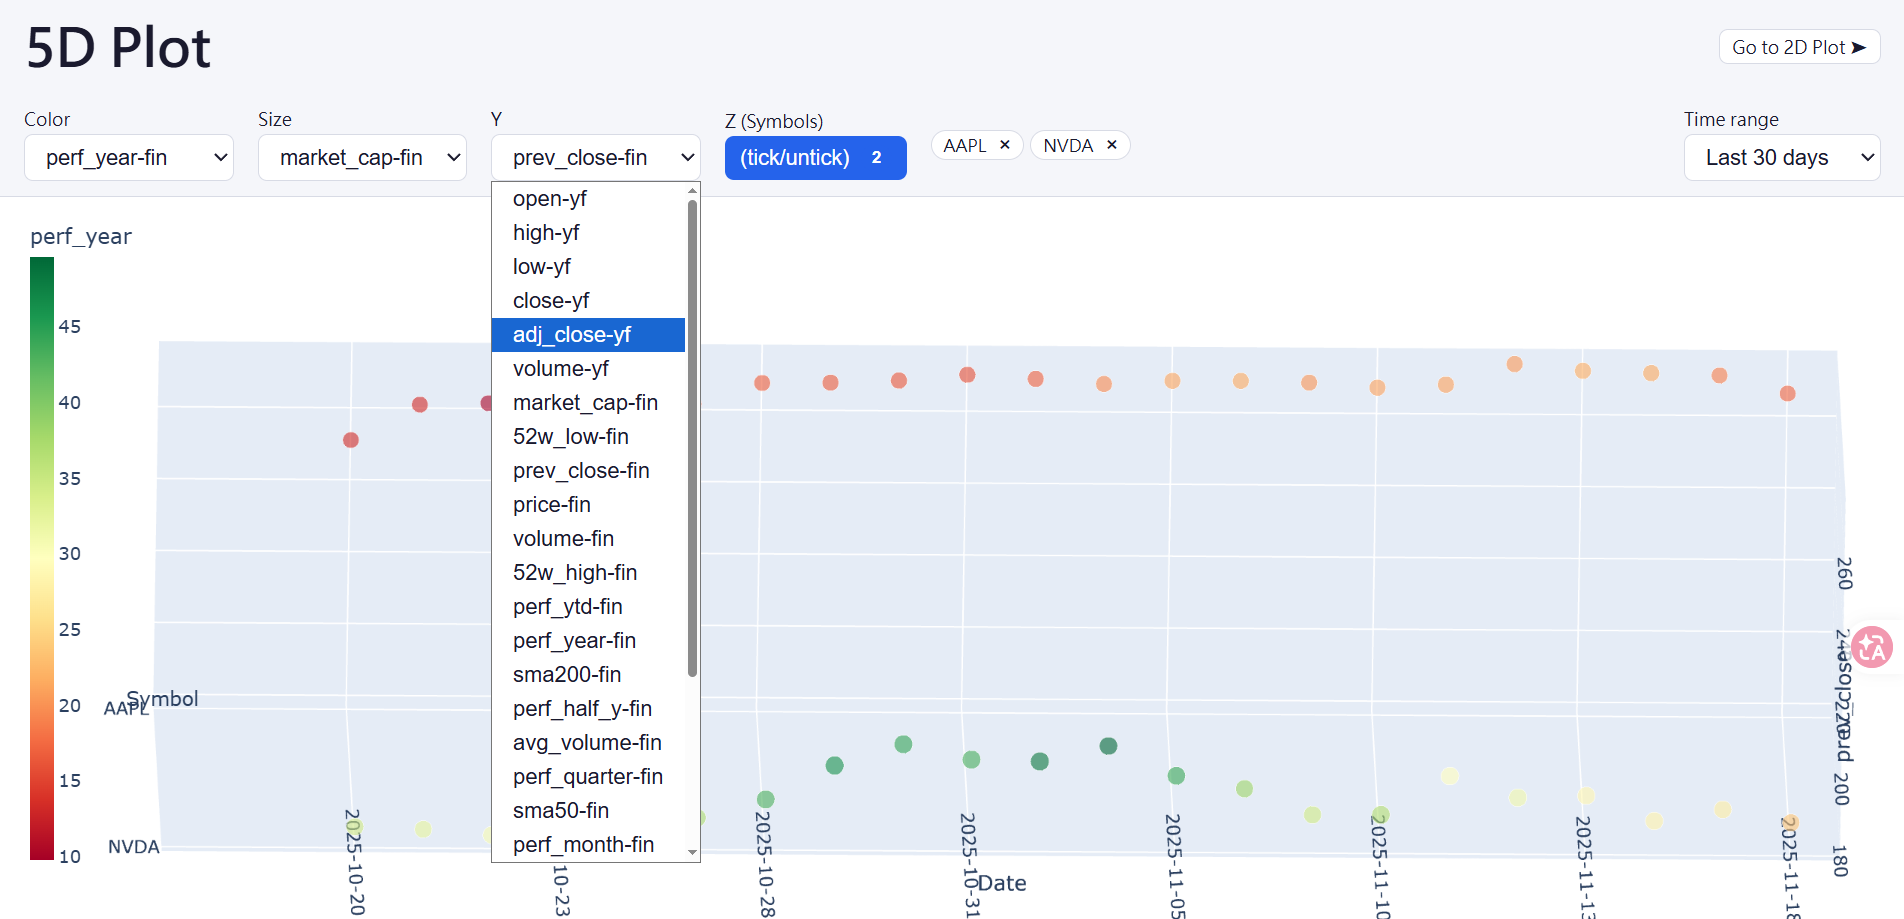
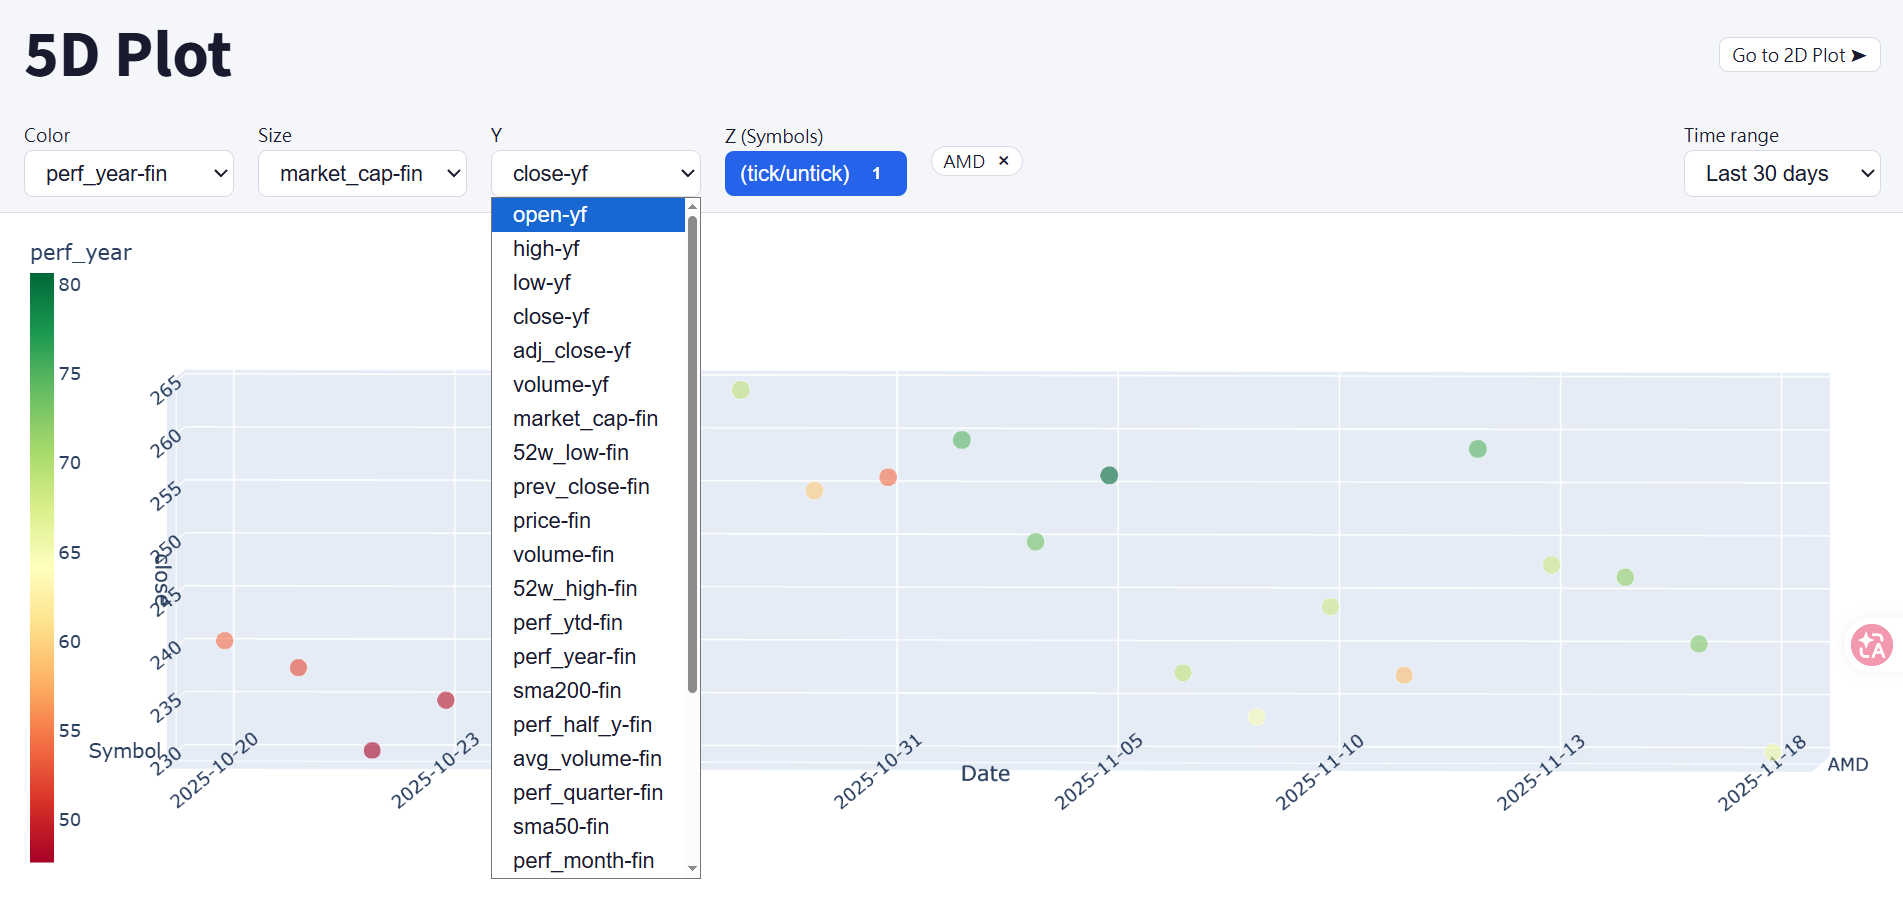
ppt images

diff --git a/static/style.css b/static/style.css
@@ -1,4 +1,10 @@
 /* style.css — layout, grid, dark/light themes (spec §8.2) */
+@font-face {
+  font-family: "Source Sans";
+  font-weight: 100 900;
+  font-style: normal;
+  src: url("/static/fonts/SourceSansVF-Upright.woff2") format("woff2");
+}
 :root {
   --bg: #ffffff;
   --fg: #1a1a2e;
@@ -46,7 +52,7 @@ body {
   background: var(--panel);
 }
 
-.topbar h1 { font-size: 2.2rem; font-weight: 700; line-height: 1.2; margin: 0; }
+.topbar h1 { font-family: "Source Sans", system-ui, sans-serif; font-size: 2.75rem; font-weight: 700; line-height: 1.2; margin: 0; }
 
 .topbar-head {
   display: flex;

diff --git a/app_streamlit.py b/app_streamlit.py
@@ -49,16 +49,21 @@ def envelope_to_figure(envelope):
                 low=group["low"], close=group["close"], name=name,
             ))
         elif ctype == "bar":
-            fig.add_trace(go.Bar(x=group[chart["x"]], y=group[chart["y"]], name=name))
+            fig.add_trace(go.Bar(x=group[chart["x"]], y=group[chart["y"]],
+                                 marker_color="#636efa", name=name))
         elif ctype == "scatter":
             fig.add_trace(go.Scatter(x=group[chart["x"]], y=group[chart["y"]],
-                                     mode="markers", name=name))
+                                     mode="markers", marker_color="#636efa",
+                                     name=name))
         else:  # line (default)
             fig.add_trace(go.Scatter(x=group[chart["x"]], y=group[chart["y"]],
-                                     mode="lines", name=name))
+                                     mode="lines", line_color="#636efa",
+                                     name=name))
     fig.update_layout(
         title=envelope.get("title") or chart.get("title") or "",
-        template="plotly_dark",
+        template="plotly_white",
+        paper_bgcolor="#ffffff",
+        plot_bgcolor="#e9ebee",
         autotypenumbers="convert types",
         xaxis_title=chart.get("x", ""),
         yaxis_title=chart.get("y", ""),
@@ -68,7 +73,14 @@ def envelope_to_figure(envelope):
 
 HEADERS = {
     "trade_date": "Trade Date", "open": "Open", "high": "High", "low": "Low",
-    "close": "Close", "adj_close": "Adj Close", "volume_yf": "Volume",
+    "close": "Close", "adj_close": "Adj Close", "volume_yf": "Volume (yf)",
+    "market_cap": "Market Cap", "52w_low": "52W Low", "prev_close": "Prev Close",
+    "price": "Price", "volume_fin": "Volume (fin)", "52w_high": "52W High",
+    "perf_ytd": "Perf YTD", "perf_year": "Perf 1Y", "sma200": "SMA 200",
+    "perf_half_y": "Perf 6M", "avg_volume": "Avg Volume", "perf_quarter": "Perf 3M",
+    "sma50": "SMA 50", "perf_month": "Perf 1M", "sma20": "SMA 20",
+    "atr": "ATR", "rsi_14": "RSI 14", "perf_week": "Perf 1W",
+    "rel_volume": "Rel Volume", "change": "Change (%)",
 }
 
 WINDOW_OPTIONS = {
@@ -90,40 +102,89 @@ st.markdown(
     .stAppHeader,
     [data-testid="stAppHeader"] { display: none; }
     [data-testid="stTooltipHoverTarget"] { display: none !important; }
-    .block-container { padding-top: 0.2rem; }
+    header[data-testid="stHeader"] { display: none !important; }
+    [data-testid="stMainBlockContainer"] {
+      padding-top: 0.25rem !important;
+      margin-top: -2.5rem !important;
+    }
+    .stSelectbox { width: 50%; }
+    div[data-testid="stSelectbox"] > div:has(input),
+    div[data-testid="stSelectbox"] > div:has(input) > div {
+      background-color: #ffffff !important;
+    }
+    div[data-testid="stColumn"]:last-child .stSelectbox { width: 100%; margin-left: auto; }
+    div[data-testid="stColumn"]:nth-child(2) .stSelectbox { margin-left: auto; }
+    .st-key-header_box {
+      background: #f5f6fa;
+      border-bottom: 1px solid #d8dbe5;
+      padding: 0.7rem 1rem 0.85rem;
+      width: calc(100% + 2rem) !important;
+      max-width: none !important;
+      margin-left: -1rem !important;
+      margin-right: -1rem !important;
+      border-radius: 0;
+    }
+    .st-key-header_box [data-testid="stVerticalBlock"] {
+      gap: 0 !important;
+    }
+    .st-key-header_box h1 {
+      padding-bottom: 0 !important;
+    }
+    @media (min-width: 864px) {
+      .block-container {
+        padding-left: 5rem !important;
+        padding-right: 5rem !important;
+      }
+      .st-key-header_box {
+        width: calc(100% + 10rem) !important;
+        max-width: none !important;
+        margin-left: -5rem !important;
+        margin-right: -5rem !important;
+      }
+    }
     </style>
     """,
     unsafe_allow_html=True,
 )
 
-st.markdown(
-    f"""
-    <div style="display:flex; align-items:center; gap:1rem; flex-wrap:wrap;">
-      <h1 style="margin:0;">2D Plot</h1>
-      <a href="{logic_layer.get_urls()['main_url']}" target="_blank" rel="noopener"
-         style="text-decoration:none; margin-left:auto; padding:0.4rem 0.9rem;
-                border:1px solid rgba(250,250,250,0.2); border-radius:0.5rem;">
-        Go to 5D Plot &#10148;
-      </a>
-    </div>
-    """,
-    unsafe_allow_html=True,
-)
+with st.container(key="header_box", border=False):
+    st.markdown(
+        f"""
+        <div style="display:flex; align-items:center; gap:1rem; flex-wrap:wrap;">
+          <h1 style="margin:0;">2D Plot</h1>
+          <a href="{logic_layer.get_urls()['main_url']}" target="_blank" rel="noopener"
+             style="text-decoration:none; margin-left:auto; padding:0.4rem 0.9rem;
+                    background:#ffffff; color:#1a1a2e;
+                    border:1px solid #d8dbe5; border-radius:0.5rem;">
+            Go to 5D Plot &#10148;
+          </a>
+        </div>
+        """,
+        unsafe_allow_html=True,
+    )
 
-symbols = logic_layer.symbol_list()
-if not symbols:
-    st.warning("No data ingested yet. Run: python ingest.py, python load_staging.py, python load_close_open_ratio.py")
-    st.stop()
+    symbols = logic_layer.symbol_list()
+    if not symbols:
+        st.warning("No data ingested yet. Run: python ingest.py, python load_staging.py, python load_close_open_ratio.py")
+        st.stop()
 
-_, sym_col, _, win_col = st.columns([5, 2, 3, 2], vertical_alignment="center")
-with sym_col:
-    default_idx = symbols.index("AAPL") if "AAPL" in symbols else 0
-    symbol = st.selectbox("Symbol", symbols, index=default_idx)
-with win_col:
-    window = st.selectbox("Time range", list(WINDOW_OPTIONS), index=0,
-                          help="Default: last 30 days; All history = full history")
+    _, col_col, sym_col, _, win_col = st.columns([1, 2, 2, 2, 1], vertical_alignment="center")
+    with col_col:
+        y_options = list(logic_layer.UNIFIED_NUMERIC_COLUMNS)
+        y_column = st.selectbox(
+            "Y (Date column)",
+            y_options,
+            index=y_options.index("close"),
+            format_func=lambda c: logic_layer.CHANNEL_LABELS.get(c, c),
+        )
+    with sym_col:
+        default_idx = symbols.index("AMD") if "AMD" in symbols else 0
+        symbol = st.selectbox("Symbol", symbols, index=default_idx)
+    with win_col:
+        window = st.selectbox("X (Time range)", list(WINDOW_OPTIONS), index=0,
+                              help="Default: last 30 days; All history = full history")
 
-params = {"symbol": symbol, "limit": 0}
+params = {"symbol": symbol, "y": y_column, "limit": 0}
 if WINDOW_OPTIONS[window]:
     params["days"] = WINDOW_OPTIONS[window]
 

diff --git a/app_flask.py b/app_flask.py
@@ -23,7 +23,7 @@ URL semantics:
     days absent        -> UI default: last 30 days (explicit days=30)
     days= (empty)      -> "All history": days param omitted to the metric
     days=30..365       -> trailing window
-    symbols absent     -> UI default: first symbol ticked (AAPL preferred)
+    symbols absent     -> UI default: first symbol ticked (AMD preferred)
     symbols=           -> nothing ticked (empty chart)
     symbols=A,B        -> only those symbols
     threshold=N        -> binary threshold (only used when z=change_bin)
@@ -247,7 +247,6 @@ def _chart_html(days, symbols, channels, threshold):
         x_max = float(df[chart["x"]].max())
         y_min = float(df[chart["y"]].min())
         z_ref = float(df[chart["z"]].min())
-        x_pad = max((x_max - x_min) * 0.1, 1.0)
         fig.update_layout(
             scene=dict(
                 xaxis_title=scene_titles["x"],
@@ -256,7 +255,13 @@ def _chart_html(days, symbols, channels, threshold):
                 annotations=[
                     dict(
                         text=scene_titles["z"],
-                        x=x_min - x_pad, y=y_min, z=z_ref,
+                        # Anchored exactly on the first date (no scene-bounds
+                        # stretch — gl3d bounds use only the x/y/z anchors),
+                        # with the text pushed into the left margin via
+                        # screen-space xshift: zero empty axis before the
+                        # first point.
+                        x=x_min, y=y_min, z=z_ref,
+                        xshift=-40,
                         showarrow=False, xanchor="right", yanchor="middle",
                         font=dict(size=13),
                     )
@@ -270,7 +275,7 @@ def _chart_html(days, symbols, channels, threshold):
                             # tuned to the 30-day sampled view; camera
                             # untouched by the fixed-stage engine, so it
                             # persists.
-                            center=dict(x=-0.12, y=0, z=0),
+                            center=dict(x=-0.12, y=-0.1, z=0),
                             projection=dict(type="orthographic")),
                 aspectmode="manual",
                 aspectratio=aspectratio,
@@ -299,7 +304,7 @@ def _binary_summary(meta):
 def index():
     days, symbols, symbols_explicit, threshold = _request_view()
     universe = logic_layer.symbol_list()
-    default_ticked = {"AAPL"} if "AAPL" in universe else ({universe[0]} if universe else set())
+    default_ticked = {"AMD"} if "AMD" in universe else ({universe[0]} if universe else set())
     if symbols is None:
         symbols = sorted(default_ticked)
     selected = set(symbols) if symbols_explicit else default_ticked

diff --git a/logic_layer.py b/logic_layer.py
@@ -60,7 +60,7 @@ FIN_COLUMNS = (
     "perf_week", "rel_volume", "change",
 )
 UNIFIED_NUMERIC_COLUMNS = YF_COLUMNS + FIN_COLUMNS
-DEFAULT_CHANNELS = {"z": "prev_close", "size": "market_cap", "color": "perf_year"}
+DEFAULT_CHANNELS = {"z": "close", "size": "market_cap", "color": "perf_year"}
 
 # Binary Z channel: not a real column — a computed 0/1 flag
 # (change >= threshold) at query time, derived directly from
@@ -172,13 +172,25 @@ def _decimate(df, max_points):
 
 @register
 def history(params):
-    symbol = params.get("symbol", "AAPL").upper()
+    """2D history view for the Streamlit dashboard (:8501).
+
+    Returns the full unified row (trade_date + all UNIFIED_NUMERIC_COLUMNS),
+    so the :8501 data column dropdown can plot any dataset column — the
+    same dataset the :5000 3D cloud reads. `y` (optional) picks the
+    plotted column (validated against UNIFIED_NUMERIC_COLUMNS, default
+    "close") and becomes the chart's y channel.
+    """
+    symbol = params.get("symbol", "AMD").upper()
+    y = (params.get("y") or "").strip().lower()
+    if y not in UNIFIED_NUMERIC_COLUMNS:
+        y = "close"
     limit = int(params.get("limit", 250))
     lim_sql, lim_params = _limit_clause(limit)
     window_sql, window_params = _window_clause(symbol, params)
     df = pd.DataFrame(db.query(
         f"""
-        SELECT trade_date, open, high, low, close, adj_close, volume_yf
+        SELECT trade_date,
+               {", ".join(f"`{c}`" for c in UNIFIED_NUMERIC_COLUMNS)}
         FROM unified_market_data
         WHERE symbol = %s
         {window_sql}
@@ -188,7 +200,7 @@ def history(params):
         (symbol,) + window_params + lim_params,
     ))
     df = df.iloc[::-1].reset_index(drop=True)
-    return df, "history", "line", "trade_date", "close", symbol
+    return df, "history", "line", "trade_date", y, symbol
 
 
 @register
